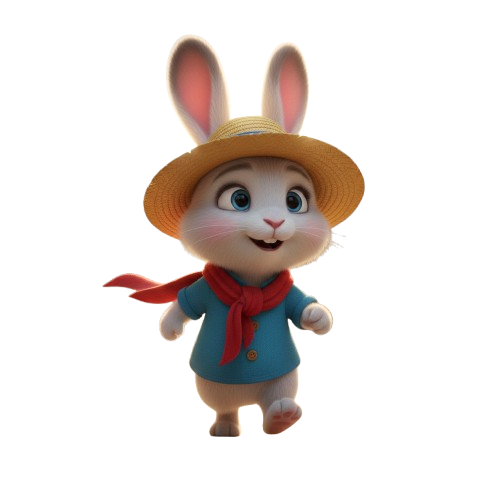
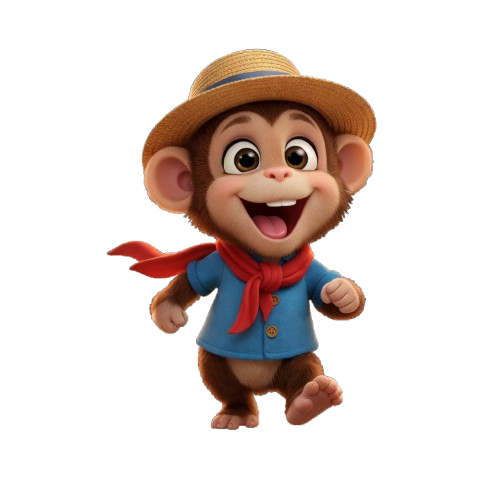
chang

Changed region(s): [[0.21, 0.06, 0.75, 0.9]]

diff --git a/frontend/src/app/components/game/game.component.ts b/frontend/src/app/components/game/game.component.ts
@@ -25,6 +25,7 @@ export class GameComponent implements OnInit {
     const PhaserImport = await import('phaser');
     const Phaser = (PhaserImport as any).default || PhaserImport;
     
+    // SERVER CONNECTION
     const url = window.location.hostname === 'localhost' ? 'http://localhost:3000' : undefined;
     this.socket = io(url);
 
@@ -63,8 +64,10 @@ export class GameComponent implements OnInit {
       },
       scene: {
         preload: function(this: any) {
-            // --- ASSETS LOAD ---
-            this.load.image('player', 'https://labs.phaser.io/assets/sprites/phaser-dude.png'); 
+            // --- CHANGE 1: GUBBU WAPAS AAYA ---
+            // Hum 'assets/gubbu.png' use kar rahe hain
+            this.load.image('player', 'assets/gubbu.png'); 
+            
             this.load.image('spaceBg', 'assets/bg.png');
             this.load.image('spaceWall', 'assets/wall.png');
         },
@@ -76,22 +79,20 @@ export class GameComponent implements OnInit {
           this.add.tileSprite(400, 300, 800, 600, 'spaceBg');
           
           socket.on('connect', () => {
-              console.log('✅ Connected! My ID:', socket.id);
               scoreText.setText('Connected! Loading...');
               socket.emit('requestPlayers');
+              socket.emit('requestStar');
           });
 
-          // --- UPDATED TOUCH BUTTONS (Transparent & Lower) ---
+          // --- TOUCH BUTTONS ---
           const createBtn = (x: number, y: number, text: string) => {
-              // Background color hata diya hai, sirf text dikhega
               let btn = self.add.text(x, y, text, { fontSize: '70px', padding: { x: 0, y: 0 } })
                 .setScrollFactor(0)
                 .setInteractive()
-                .setDepth(20); // Depth badha di
+                .setDepth(20);
               return btn;
           };
 
-          // Buttons ko screen ke kone mein neeche set kiya hai
           const btnLeft = createBtn(20, 520, '⬅');
           const btnRight = createBtn(150, 520, '➡');
           const btnUp = createBtn(680, 440, '⬆');
@@ -138,7 +139,6 @@ export class GameComponent implements OnInit {
                  self.physics.add.existing(star);
                  star.setDepth(5);
              }
-             
              star.setPosition(location.x, location.y);
              star.setVisible(true);
              if(star.body) {
@@ -147,8 +147,6 @@ export class GameComponent implements OnInit {
              }
              canCollect = true; 
           });
-
-          socket.emit('requestStar');
 
           // --- SCOREBOARD ---
           scoreText = self.add.text(16, 16, 'Connecting...', { fontSize: '32px', fill: '#ffffff', stroke: '#000000', strokeThickness: 4 }).setDepth(10);
@@ -167,19 +165,16 @@ export class GameComponent implements OnInit {
           // --- GAME OVER ---
           socket.on('gameOver', (winnerId: string) => {
             self.physics.pause();
-            
             if(star) {
                 star.setVisible(false);
                 if(star.body) star.body.enable = false;
             }
-            
             let resultText = (winnerId === socket.id) ? 'YOU WIN! 🏆' : 'YOU LOSE! 😢';
             let color = (winnerId === socket.id) ? '#00ff00' : '#ff0000';
             winText = self.add.text(250, 250, resultText, { fontSize: '60px', fill: color, backgroundColor: '#000' }).setDepth(20);
             subText = self.add.text(280, 320, 'Restarting in 5 seconds...', { fontSize: '20px', fill: '#fff' }).setDepth(20);
           });
 
-          // --- GAME RESET ---
           socket.on('gameReset', () => {
              if (winText) winText.destroy();
              if (subText) subText.destroy();
@@ -198,7 +193,8 @@ export class GameComponent implements OnInit {
               if (players[id].playerId === socket.id) {
                 // MAIN PLAYER
                 player = self.physics.add.sprite(players[id].x, players[id].y, 'player');
-                player.setScale(1.5); 
+                // --- CHANGE 2: SIZE CHHOTA KIYA (0.15) ---
+                player.setScale(0.15); 
                 player.setTint(0x00ff00);
                 player.playerId = players[id].playerId;
                 player.setDepth(5);
@@ -213,11 +209,11 @@ export class GameComponent implements OnInit {
                         }
                     }, undefined, self);
                 }
-
               } else {
                 // ENEMY
                 const other = self.physics.add.sprite(players[id].x, players[id].y, 'player');
-                other.setScale(1.5); 
+                // --- CHANGE 2: SIZE CHHOTA KIYA (0.15) ---
+                other.setScale(0.15); 
                 other.setTint(0xff0000);
                 otherPlayers.add(other);
                 other.setDepth(5);
@@ -229,17 +225,26 @@ export class GameComponent implements OnInit {
 
           socket.on('newPlayer', (playerInfo: any) => {
             const other = self.physics.add.sprite(playerInfo.x, playerInfo.y, 'player');
-            other.setScale(1.5);
+            // --- CHANGE 2: SIZE CHHOTA KIYA (0.15) ---
+            other.setScale(0.15);
             other.setTint(0xff0000);
             otherPlayers.add(other);
             other.setDepth(5);
             (other as any).playerId = playerInfo.playerId;
           });
 
+          // --- CHANGE 3: SMOOTH MOVEMENT (NO LAG) ---
           socket.on('playerMoved', (playerInfo: any) => {
             otherPlayers.getChildren().forEach((other: any) => {
               if (playerInfo.playerId === other.playerId) {
-                other.setPosition(playerInfo.x, playerInfo.y);
+                // Teleport ki jagah Tween (Slide) use kar rahe hain
+                self.tweens.add({
+                    targets: other,
+                    x: playerInfo.x,
+                    y: playerInfo.y,
+                    duration: 100, // 100ms mein pahunchega (Masks lag)
+                    ease: 'Linear'
+                });
               }
             });
           });
@@ -254,6 +259,7 @@ export class GameComponent implements OnInit {
           wasd = self.input.keyboard.addKeys('W,S,A,D');
           
           if(socket.connected) {
+              scoreText.setText('Connected! Loading...');
               socket.emit('requestPlayers');
               socket.emit('requestStar');
           }
@@ -279,10 +285,12 @@ export class GameComponent implements OnInit {
 
             const x = player.x;
             const y = player.y;
-            if (oldPosition && (x !== oldPosition.x || y !== oldPosition.y)) {
+            // Network Traffic Kam karne ke liye check
+            if (oldPosition && (Math.abs(x - oldPosition.x) > 2 || Math.abs(y - oldPosition.y) > 2)) {
               socket.emit('playerMovement', { x: player.x, y: player.y });
+              oldPosition = { x: player.x, y: player.y };
             }
-            oldPosition = { x: player.x, y: player.y };
+            if (!oldPosition) oldPosition = { x: player.x, y: player.y };
           }
         }
       }
